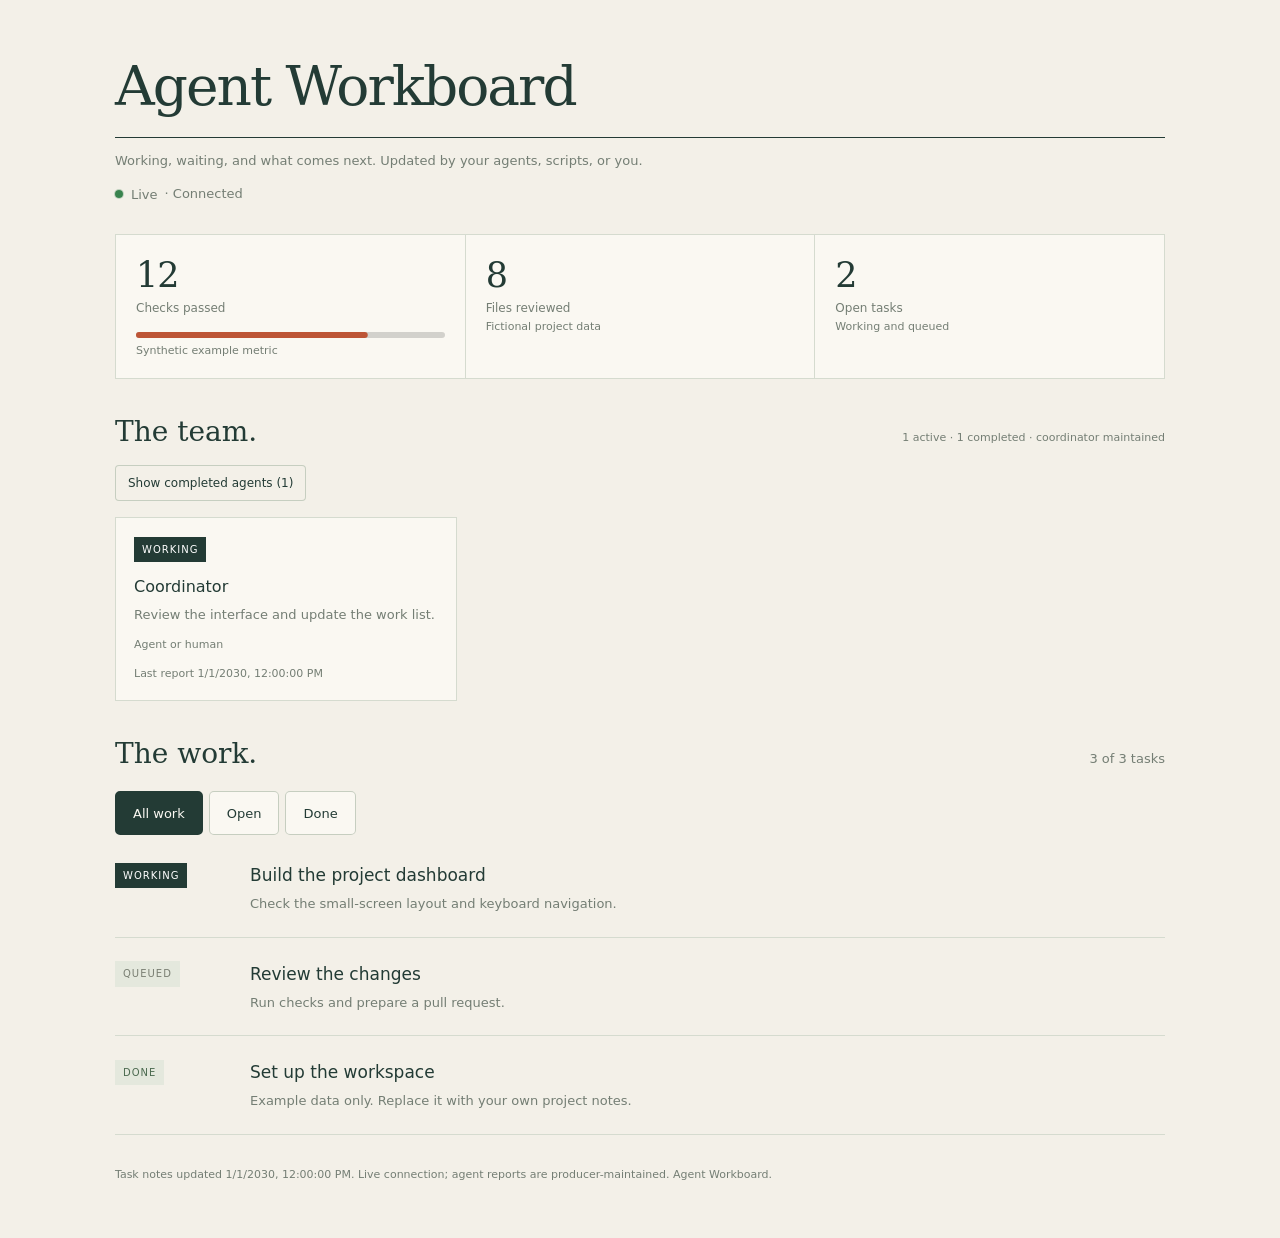
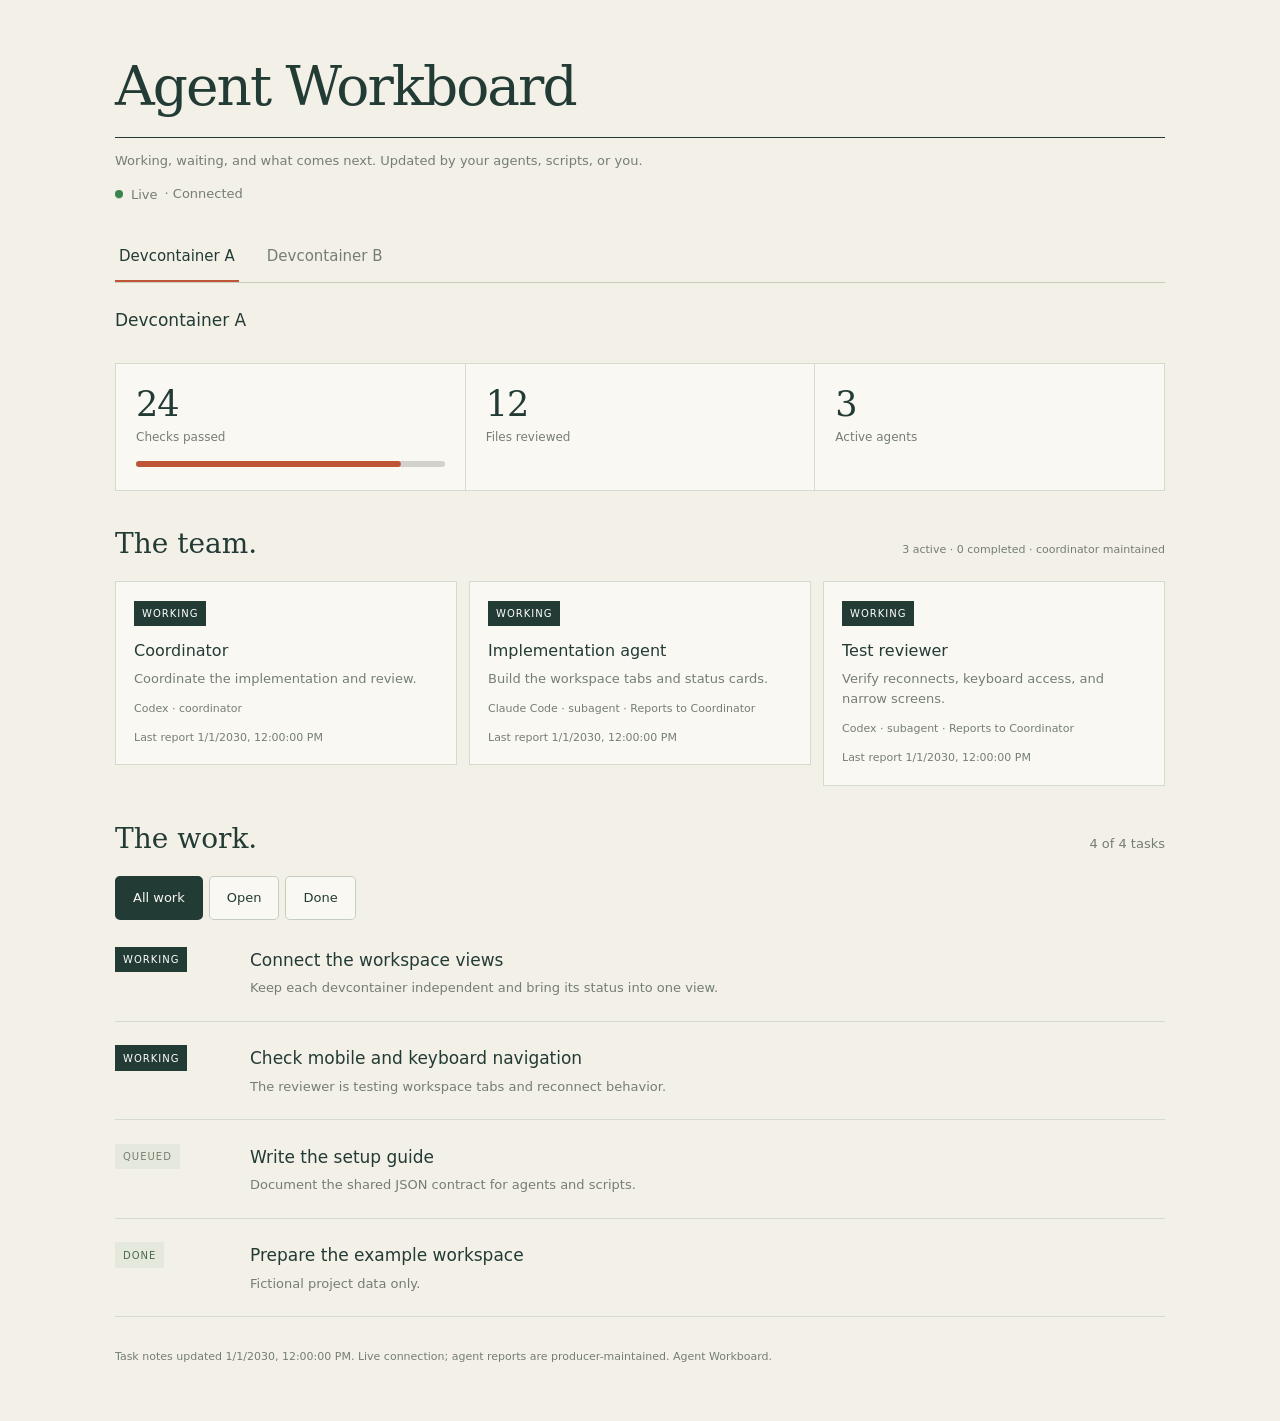
Show fictional devcontainers, separate teams and subagents in README (#3)

diff --git a/README.md b/README.md
@@ -5,7 +5,11 @@ Claude Code, other agents, shell scripts, or a human editing JSON.
 
 **One Python file. No runtime dependencies. No account, API key, or build step.**
 
-![A fictional project on Agent Workboard](docs/demo.png)
+![Two fictional devcontainers with a coordinator and subagents](docs/demo.png)
+
+The screenshots use fictional projects and agent reports. Each devcontainer has
+its own team; the selected tab shows its coordinator and subagents, including
+examples using both Codex and Claude Code.
 
 ## Try it in a minute
 
@@ -113,7 +117,7 @@ only one workspace, the extra navigation is hidden. If a producer goes offline, 
 snapshot stays visible with an unavailable warning; the other tabs keep working.
 Use `--include-local` to include the hub's own state as a tab as well.
 
-![Fictional workspaces with an offline producer](docs/workspaces.png)
+![A second fictional devcontainer and its separate team](docs/workspaces.png)
 
 Inside containers, `127.0.0.1` means **that container**. Use reachable container
 network names, a host gateway, or published host ports in the real config. Each
